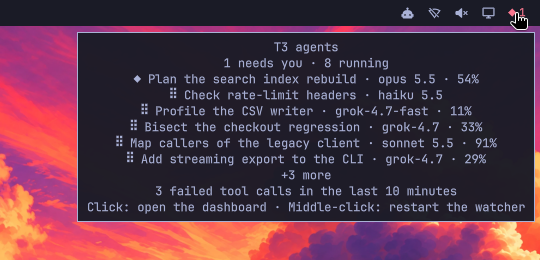
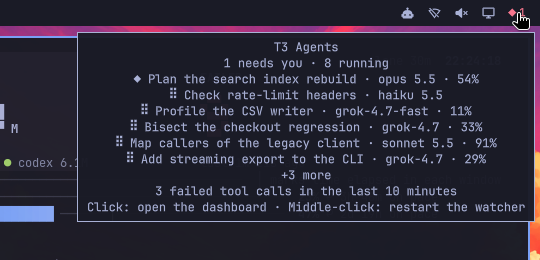
Document the attention and legibility work, refresh screenshots
The README covers the quiet top row, needs-you navigation (n, the tile), the
one-line limits, stalled and slow marks, out-of-view cues and the dashboard's
own error message. Both screenshots are retaken on stock Omarchy with demo
data, showing the plain-text header and the new marks.

Changed region(s): [[0.0, 0.1231, 1.0, 1.0], [0.9481, 0.0308, 1.0, 0.1231], [0.5333, 0.1538, 0.563, 0.2154]]

diff --git a/README.md b/README.md
@@ -49,19 +49,29 @@ node --experimental-ffi --disable-warning=ExperimentalWarning src/main.ts --demo
 
 **The dashboard**
 
-- **Big numbers up top:** active agents, agents waiting on you (the tile
-  blinks), tool calls per minute, peak context, tokens today, failed calls.
+- **Big numbers up top:** active agents, agents waiting on you, tool calls per
+  minute, peak context, tokens today, failed calls. Only numbers worth a look
+  are big: zeros stay small and dim, and a missing value is a small `—` with the
+  reason. If T3 can't be read, the tiles say so instead of showing zeros.
+- **Needs you, one key away:** the tile shows what's being asked and how long
+  it has waited. `n` (or a click on the tile) jumps to the next agent waiting
+  on you, and `Enter` opens it in T3. Its `◆` blinks until you've seen it.
 - **Limits:** a meter per subscription window from Omarchy's usage records,
   with a tick for how much of the window has passed, so you can tell when
-  you're burning ahead of pace.
+  you're burning ahead of pace. In short windows it folds into one line with
+  each provider's fullest window.
 - **Every agent and subagent as a tree:** status, a context meter that warms
   past 75% and goes hot past 90%, what it's doing right now, model, age, and an
   activity lane on a shared time axis, where a failed call shows as `×`. A new
   tool call sweeps once across the agent's name.
 - **Stall detection:** a running agent with no tool call in flight and nothing
-  new for 2 minutes stops spinning and says `◌ quiet 4m · last ❯ npm test`; it
-  turns warm after 8. A tool call shows its running time, and turns warm past 5
-  minutes. An agent waiting on its own subagents is delegating, not stuck.
+  new for 2 minutes stops spinning and says `◌ quiet 4m · last ❯ npm test`;
+  after 8 it says `◌ stalled` and turns warm. A tool call shows its running
+  time, and past 5 minutes gets a `△` and turns warm. An agent waiting on its
+  own subagents is delegating, not stuck.
+- **Nothing hidden without a cue:** a list or panel with more than fits says
+  `▼ N more`, and the list's cue sums up what's out of view (`◆1 · 1 stalled ·
+  1 ✗`), turning hot when someone waiting on you is scrolled away.
 - **Linked to T3, both ways:** open a thread in T3 and the dashboard selects it
   and marks it and its subagents. Press `Enter` on any agent and T3 jumps to
   that thread.
@@ -139,6 +149,7 @@ away, it falls back to the one on `PATH`; rerun the installer after switching.
 | `g` `G` / `Home` `End` | first / last agent |
 | `Enter` / `o` | open the selected agent's thread in T3 Code |
 | `Space` / `←` `→` | fold or unfold subagents (`←` on a leaf jumps to its parent) |
+| `n` | jump to the next agent waiting on you (or click the NEEDS YOU tile) |
 | `a` | only agents that are running or waiting, plus their parents |
 | `f` | follow the thread open in T3 (on by default) |
 | `t` | lane window: 15 min, 30 min, 1 h, 3 h |
@@ -146,7 +157,7 @@ away, it falls back to the one on `PATH`; rerun the installer after switching.
 | `p` / `r` | pause updates / refresh now |
 | `m` | calm mode: nothing animates (on by default when Omarchy's animations are off) |
 | `x` | CRT effects, purely for fun (off in calm mode) |
-| `?` / `h` | help and legend |
+| `?` / `h` | help and legend (scroll it with `↑` `↓` / `j` `k` or the wheel) |
 | `Esc` | close the help, or quit |
 | `q` | quit |
 
@@ -157,8 +168,11 @@ Home, End and Page Up/Down act like the main keys.
 | --- | --- |
 | `⠹` | running (`◉` in calm mode) |
 | `◔` | queued or starting |
-| `◆` | needs you (blinks) |
-| `◌` | running, but nothing new for 2 minutes (warm after 8) |
+| `◆` | needs you; blinks until you've seen it (selected it, or opened it in T3), also on a folded parent |
+| `◌` | running, but nothing new for 2 minutes; `◌ stalled` and warm after 8 |
+| `△` | a tool call running over 5 minutes |
+| `—` | no value, with the reason beside it |
+| `▼` `▲` N more | more out of view, below or above |
 | `✓` `✗` `⊘` | done, failed, interrupted |
 | `●` | provider. On grayscale themes: plum Claude, teal GPT / Codex, blue Grok, gray other. Colorful themes use their own colors |
 | `▎` and a band | the thread open in T3 and its subagents |
@@ -180,8 +194,8 @@ Options:
 By default it reads `~/.t3/userdata/statev2.sqlite`. If your T3 data lives
 somewhere else, set `T3CODE_HOME` to that folder (it reads
 `$T3CODE_HOME/userdata/statev2.sqlite`) or pass `--db`. When the database
-isn't there, `--once` says which path it tried and what to check, and
-`--status` puts a short version in its `error` field for the bar.
+isn't there, the dashboard and `--once` say which path they tried and what to
+check, and `--status` puts a short version in its `error` field for the bar.
 
 ## How it works, and what it touches
 
@@ -256,7 +270,7 @@ rm -r "${XDG_DATA_HOME:-$HOME/.local/share}/t3-agents"
 cd dashboard
 npm ci
 npm test        # which agent did what, read-only source, CLI errors, stall detection, T3 link,
-                # palette, digits, motion, glyph coverage, layout, render
+                # needs-you, contrast, palette, digits, motion, glyph coverage, layout, render
 npm run check   # TypeScript
 cd .. && node --test test/   # bar widget
 ```
